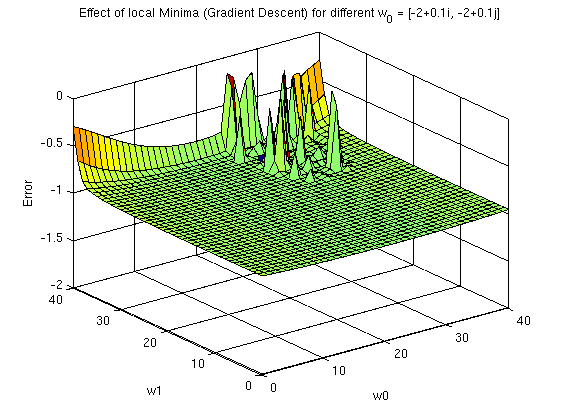
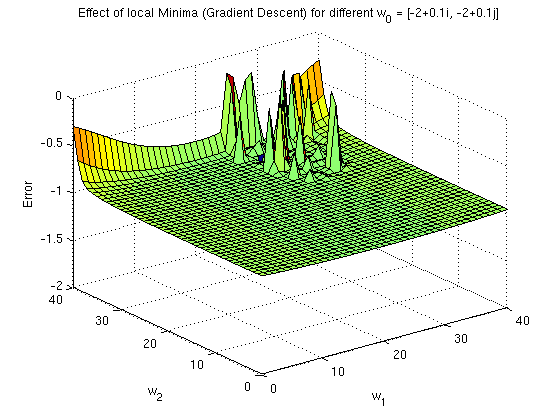
fixed 214 figure

diff --git a/02/implementation/hw214.m b/02/implementation/hw214.m
@@ -28,6 +28,6 @@ disp(['fraction: ', num2str(fraction), '%']);
 surf(0:40, 0:40, minf);
 
 title('Effect of local Minima (Gradient Descent) for different w_0 = [-2+0.1i, -2+0.1j]');
-xlabel('w0');
-ylabel('w1');
+xlabel('w_1');
+ylabel('w_2');
 zlabel('Error');

diff --git a/02/doc/212.tex b/02/doc/212.tex
@@ -97,3 +97,6 @@ Der Fehler wird bei $\eta = 0.1$ und $\vect{w_0} = \begin{bmatrix} 2 \\ 0.5 \end
   \caption{Verlauf von $f(\vect{w})$}
   \label{fig:impulse_error_w02}
 \end{figure}
+
+\clearpage
+

diff --git a/02/doc/211.tex b/02/doc/211.tex
@@ -94,3 +94,5 @@ Kurz gesagt: ist die Lernrate zu hoch, erreicht man zwar schnell ein Minimum, es
   \label{fig:211_error_w02}
 \end{figure}
 
+\clearpage
+

diff --git a/02/doc/213.tex b/02/doc/213.tex
@@ -96,3 +96,5 @@ Die Wahl des Gewichtsvektors zu Beginn ist also entscheidend, in welchen Minimum
   \label{fig:213_error_w02}
 \end{figure}
 
+\clearpage
+
